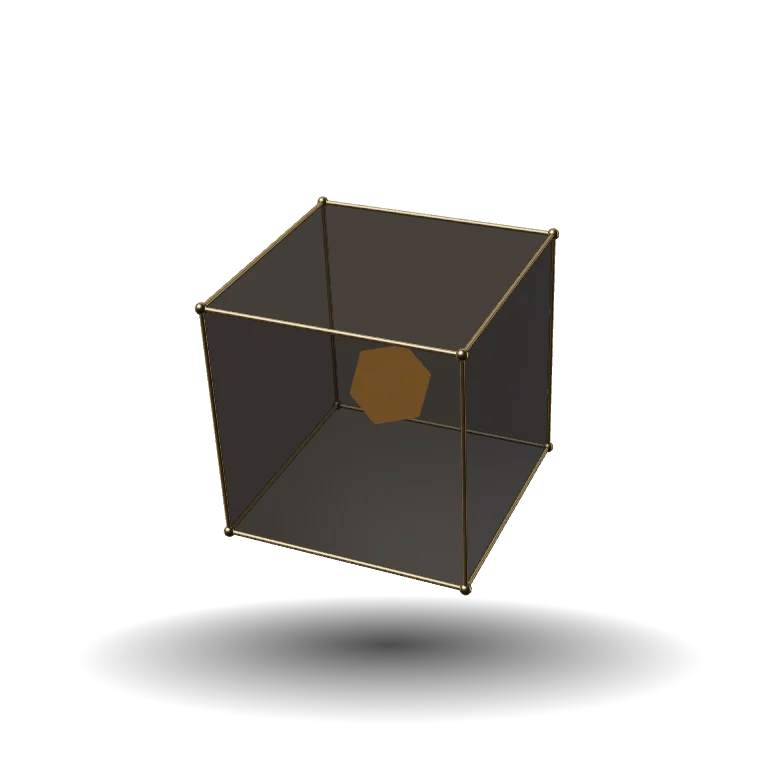
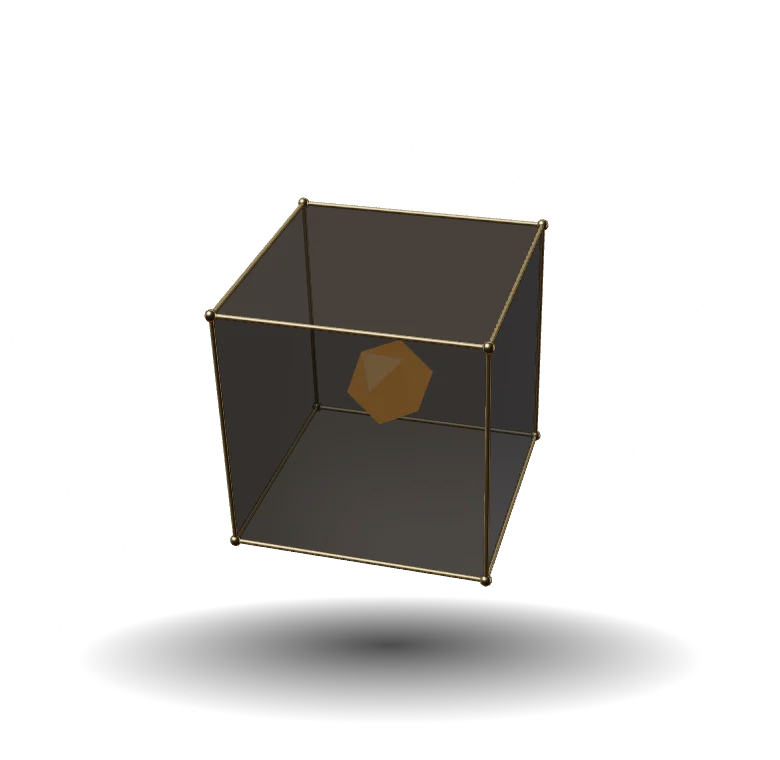
fix(3d): live scenes on phones and from page load, without a jump
Phones reporting 4 CPU cores (iPhones cap the number, many Androids
report it) were treated as low-end and only ever saw the static
poster. The low-end rule is now fewer than 4 cores or 2 GB of memory
or less on a touch device.

Scenes no longer wait for the first touch, scroll or mouse move: the
scene code starts downloading on mount and goes live once the page is
idle (at most about 1 s) and in view. Each scene starts from the pose
its poster shows (no rise-in for the hero, no grow-in for the service
shape, the selected page already lifted), so the poster-to-live swap
is seamless. The phone hero sculpture is a little smaller so it sits
between the intro and the headline; posters re-rendered to match.

Trade-off: Lighthouse lab Performance drops because its test browser
renders WebGL in software; real devices and field data are unaffected.

Tests: phones reporting 4 cores get the live scene; the menu opens,
closes with Escape (focus returns) and navigates; desktop keeps the
inline nav.

Changed region(s): [[0.2462, 0.2421, 0.7385, 0.7868], [0.3077, 0.3329, 0.3385, 0.3632]]

diff --git a/src/components/three/SceneCanvas.tsx b/src/components/three/SceneCanvas.tsx
@@ -6,15 +6,16 @@ import { useClientValue } from '../useClientValue';
 import type { SceneProps } from './types';
 
 // Each scene is its own chunk; three.js loads only after first paint, when the canvas is in view.
-const scenes = {
-  hero: dynamic(() => import('./scenes/HeroSculpture'), { ssr: false }),
-  shapes: dynamic(() => import('./scenes/ShapeMorph'), { ssr: false }),
-  slabs: dynamic(() => import('./scenes/ProjectRing'), { ssr: false }),
-  layers: dynamic(() => import('./scenes/PageLayers'), { ssr: false }),
-  globe: dynamic(() => import('./scenes/GoldGlobe'), { ssr: false }),
-  listen: dynamic(() => import('./scenes/ListeningMark'), { ssr: false }),
+const load = {
+  hero: () => import('./scenes/HeroSculpture'),
+  shapes: () => import('./scenes/ShapeMorph'),
+  slabs: () => import('./scenes/ProjectRing'),
+  layers: () => import('./scenes/PageLayers'),
+  globe: () => import('./scenes/GoldGlobe'),
+  listen: () => import('./scenes/ListeningMark'),
 };
-export type SceneName = keyof typeof scenes;
+export type SceneName = keyof typeof load;
+const scenes = Object.fromEntries(Object.entries(load).map(([k, fn]) => [k, dynamic(fn, { ssr: false })])) as Record<SceneName, ReturnType<typeof dynamic<SceneProps>>>;
 
 /** Keeps the poster if WebGL fails to start (lost or refused context). */
 class Fallback extends Component<{ children: ReactNode; onError: () => void }, { failed: boolean }> {
@@ -32,8 +33,11 @@ class Fallback extends Component<{ children: ReactNode; onError: () => void }, {
 
 function canRunWebGL() {
   if (matchMedia('(prefers-reduced-motion: reduce)').matches) return false;
-  // Low-end phones get the poster only.
-  if ((navigator.hardwareConcurrency || 8) <= 4 && matchMedia('(pointer: coarse)').matches) return false;
+  // Only genuinely low-end phones get the poster only. iPhones and many Androids report 4 cores
+  // (Safari caps the number), so "4 or fewer" would wrongly exclude them.
+  const nav = navigator as Navigator & { deviceMemory?: number };
+  const weak = (nav.hardwareConcurrency || 8) < 4 || (nav.deviceMemory ?? 8) <= 2;
+  if (weak && matchMedia('(pointer: coarse)').matches) return false;
   try {
     const c = document.createElement('canvas');
     return !!(c.getContext('webgl2') || c.getContext('webgl'));
@@ -58,8 +62,8 @@ type Props = {
 /**
  * Server-rendered poster first, then the live scene fades in over it.
  * Poster only for reduced motion, low-end phones and no WebGL. Pauses off-screen and in hidden tabs.
- * The live scene starts on the visitor's first interaction (pointer, touch, wheel, scroll or key) after
- * the page is idle, so page load never pays for WebGL; the poster looks the same until then.
+ * The scene's code starts downloading on mount; it goes live once the page is idle (at most ~1 s)
+ * and in view, starting from the same pose as the poster so the swap is seamless.
  * `?poster` forces the live scene (used by scripts/render-posters.mjs).
  */
 export default function SceneCanvas({ scene, label, className = '', sceneProps, band }: Props) {
@@ -72,12 +76,12 @@ export default function SceneCanvas({ scene, label, className = '', sceneProps, 
   useEffect(() => {
     const el = ref.current!;
     if (!posterMode && !canRunWebGL()) return;
+    void load[scene]();
 
     let visible = false;
     let idle = false;
-    let engaged = posterMode;
     const update = () => {
-      if (visible && idle && engaged) setLive(true);
+      if (visible && idle) setLive(true);
       setRunning(visible && !document.hidden);
     };
     const io = new IntersectionObserver(([e]) => {
@@ -87,17 +91,14 @@ export default function SceneCanvas({ scene, label, className = '', sceneProps, 
     io.observe(el);
     const ric = window.requestIdleCallback ?? ((cb: () => void) => window.setTimeout(cb, 200));
     const cic = window.cancelIdleCallback ?? window.clearTimeout;
-    const id = ric(() => {
-      idle = true;
-      update();
-    });
+    const id = ric(
+      () => {
+        idle = true;
+        update();
+      },
+      { timeout: 1000 },
+    );
     document.addEventListener('visibilitychange', update);
-    const engage = () => {
-      engaged = true;
-      update();
-    };
-    const events = ['pointermove', 'pointerdown', 'touchstart', 'wheel', 'scroll', 'keydown'] as const;
-    for (const e of events) window.addEventListener(e, engage, { once: true, passive: true });
     // A lost GPU context drops back to the poster (the event does not bubble, so listen in capture).
     const lost = () => {
       setLive(false);
@@ -108,10 +109,9 @@ export default function SceneCanvas({ scene, label, className = '', sceneProps, 
       el.removeEventListener('webglcontextlost', lost, true);
       io.disconnect();
       cic(id);
-      for (const e of events) window.removeEventListener(e, engage);
       document.removeEventListener('visibilitychange', update);
     };
-  }, [posterMode]);
+  }, [posterMode, scene]);
 
   useEffect(() => {
     if (ready && posterMode) {

diff --git a/tests/e2e/mobile.spec.ts b/tests/e2e/mobile.spec.ts
@@ -1,0 +1,45 @@
+import { expect, test } from '@playwright/test';
+
+const phones = ['chromium-390', 'webkit-390'];
+
+test('a phone reporting 4 CPU cores still gets the live 3D scene after a touch', async ({ page }, info) => {
+  test.skip(!phones.includes(info.project.name), 'phone projects only');
+  // iPhones and many Androids report 4 cores or fewer; that alone must not mean "low-end".
+  await page.addInitScript(() => Object.defineProperty(navigator, 'hardwareConcurrency', { get: () => 4 }));
+  await page.goto('/projects', { waitUntil: 'load' });
+  expect(await page.evaluate(() => matchMedia('(pointer: coarse)').matches)).toBe(true);
+  await page.touchscreen.tap(200, 700);
+  await expect(page.locator('[role=img] canvas')).toHaveCount(1, { timeout: 20_000 });
+});
+
+test('phone navigation: one-line header with a menu that opens, closes and navigates', async ({ page }, info) => {
+  test.skip(!phones.includes(info.project.name), 'phone projects only');
+  await page.goto('/', { waitUntil: 'load' });
+  const header = page.locator('header').first();
+  expect((await header.boundingBox())!.height).toBeLessThanOrEqual(84);
+  const toggle = page.getByRole('button', { name: 'Menu' });
+  await expect(toggle).toBeVisible();
+  await expect(toggle).toHaveAttribute('aria-expanded', 'false');
+
+  await toggle.click();
+  const menu = page.getByRole('dialog', { name: 'Menu' });
+  await expect(menu).toBeVisible();
+  for (const name of ['Work', 'Services', 'Websites', 'About', 'Contact']) {
+    await expect(menu.getByRole('link', { name, exact: true })).toBeVisible();
+  }
+  await page.keyboard.press('Escape');
+  await expect(menu).toBeHidden();
+  await expect(toggle).toBeFocused();
+
+  await toggle.click();
+  await menu.getByRole('link', { name: 'Services', exact: true }).click();
+  await expect(page).toHaveURL(/\/services$/);
+  await expect(page.getByRole('dialog', { name: 'Menu' })).toBeHidden();
+});
+
+test('desktop keeps the inline navigation', async ({ page }, info) => {
+  test.skip(info.project.name !== 'chromium-1440');
+  await page.goto('/', { waitUntil: 'load' });
+  await expect(page.getByRole('navigation', { name: 'Main' }).getByRole('link', { name: 'Work' })).toBeVisible();
+  await expect(page.getByRole('button', { name: 'Menu' })).toBeHidden();
+});

diff --git a/src/components/three/scenes/HeroSculpture.tsx b/src/components/three/scenes/HeroSculpture.tsx
@@ -47,7 +47,7 @@ function Sculpture({ poster }: { poster: boolean }) {
 
   useEffect(() => () => disposeTree(built.root), [built]);
 
-  const s = useMemo(() => ({ cx: 0, cy: -4, cs: 0.6, sep: 0, glow: 0, spin: 0, rx: 0, ry: 0, intro: 0, mx: 0, my: 0 }), []);
+  const s = useMemo(() => ({ cx: 0, cy: -4, cs: 0.6, sep: 0, glow: 0, spin: 0, rx: 0, ry: 0, intro: 0, mx: 0, my: 0, snapped: false }), []);
 
   useEffect(() => {
     const move = (e: MouseEvent) => {
@@ -72,8 +72,12 @@ function Sculpture({ poster }: { poster: boolean }) {
     let tsc = lerp(A[2], B[2], u);
     if (narrow) {
       tx = 0;
-      ty = halfH * 0.08; // reference used 0.32, which covered the intro text on phones
-      tsc *= 0.72;
+      ty = halfH * 0.05; // reference used 0.32, which covered the intro text on phones
+      tsc *= 0.62; // reference 0.72; smaller so it fits between the intro and the headline on short phones
+    }
+    // Start exactly where the poster shows the sculpture (no rise-in), so the poster-to-live swap is invisible.
+    if (!s.snapped) {
+      Object.assign(s, { snapped: true, intro: 1, cx: tx, cy: ty, cs: tsc, sep: lerp(A[3], B[3], u), glow: lerp(A[4], B[4], u), spin: lerp(A[5], B[5], u) });
     }
     s.intro = lerp(s.intro, t > 0.2 ? 1 : 0, q(0.035));
     s.cx = lerp(s.cx, tx, q(0.06));

diff --git a/src/components/three/scenes/ShapeMorph.tsx b/src/components/three/scenes/ShapeMorph.tsx
@@ -36,7 +36,7 @@ function Shapes({ active, onSelect }: Props) {
     });
     const shadow = kit.shadow();
     root.add(shadow);
-    return { root, shapes, shadow, spin: 0 };
+    return { root, shapes, shadow, spin: 0, started: false };
   }, []);
   useEffect(() => () => disposeTree(built.root), [built]);
 
@@ -51,12 +51,15 @@ function Shapes({ active, onSelect }: Props) {
     built.spin += dt * 0.25;
     built.shapes.forEach((s, i) => {
       const on = i === activeRef.current;
-      s.sc = lerp(s.sc, on ? (narrow ? 0.7 : 1) : 0.001, damp(on ? 0.06 : 0.12, dt));
+      const target = on ? (narrow ? 0.7 : 1) : 0.001;
+      // First frame starts at full size, matching the poster, instead of growing in.
+      s.sc = built.started ? lerp(s.sc, target, damp(on ? 0.06 : 0.12, dt)) : target;
       s.group.scale.setScalar(Math.max(0.001, s.sc));
       s.group.position.set(ox, oy + Math.sin(t * 0.9) * 0.08, 0);
       s.group.rotation.set(0.45 - p.sy * 0.3 + p.dragY * 0.4, built.spin + p.sx * 0.5 + p.dragX + (on ? 0 : 1.5), 0.1);
       s.core?.rotation.set(t * 0.6, -t * 0.8, 0);
     });
+    built.started = true;
     built.shadow.position.set(ox, oy - 2.4, 0);
     built.shadow.scale.setScalar(narrow ? 0.8 : 1.1);
     state.gl.domElement.style.cursor = p.down ? 'grabbing' : 'grab';

diff --git a/src/components/three/scenes/PageLayers.tsx b/src/components/three/scenes/PageLayers.tsx
@@ -52,7 +52,7 @@ function Layers({ names, active, onSelect }: Props) {
       stack.add(g);
       return { g, lab, lift: 0 };
     });
-    return { root, stack, plates, spread: 0.5 };
+    return { root, stack, plates, spread: 0.5, started: false };
   }, [names]);
   useEffect(() => () => disposeTree(built.root), [built]);
 
@@ -82,11 +82,14 @@ function Layers({ names, active, onSelect }: Props) {
     built.stack.scale.setScalar(narrow ? 0.7 : 1);
     built.stack.rotation.set(0, -0.5 + p.sx * 0.3 + p.dragX, 0);
     built.plates.forEach((pl, i) => {
-      pl.lift = lerp(pl.lift, i === activeRef.current ? 1 : 0, damp(0.1, dt));
+      const lifted = i === activeRef.current ? 1 : 0;
+      // First frame starts with the selected page already lifted, matching the poster.
+      pl.lift = built.started ? lerp(pl.lift, lifted, damp(0.1, dt)) : lifted;
       pl.g.position.set(pl.lift * 1.1, (names.length - 1 - i) * built.spread - 1.4 + Math.sin(t + i) * 0.03, pl.lift * 0.6);
       pl.g.rotation.z = pl.lift * 0.05;
       (pl.lab.material as THREE.MeshBasicMaterial).opacity = 0.35 + 0.65 * pl.lift;
     });
+    built.started = true;
     const hover = p.inside ? pick(p) : null;
     state.gl.domElement.style.cursor = hover ? 'pointer' : 'grab';
   });

diff --git a/tests/e2e/fallback.spec.ts b/tests/e2e/fallback.spec.ts
@@ -32,9 +32,7 @@ test.describe('reduced motion', () => {
 test('with WebGL the live scene replaces the poster and the list drives it', async ({ page }, info) => {
   test.skip(info.project.name !== 'chromium-1440');
   await page.goto('/projects', { waitUntil: 'networkidle' });
-  // The scene waits for the first interaction; until then the poster shows.
-  await expect(page.locator('[role=img] canvas')).toHaveCount(0);
-  await page.mouse.move(700, 400);
+  // The scene goes live on its own once the page is idle; no interaction needed.
   await expect(page.locator('[role=img] canvas')).toHaveCount(1, { timeout: 15_000 });
   await page.getByRole('button', { name: /^Creta Maris/ }).click();
   await expect(page.getByRole('button', { name: /^Creta Maris/ })).toHaveAttribute('aria-current', 'true');
